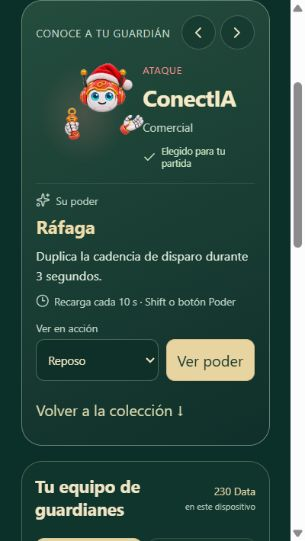
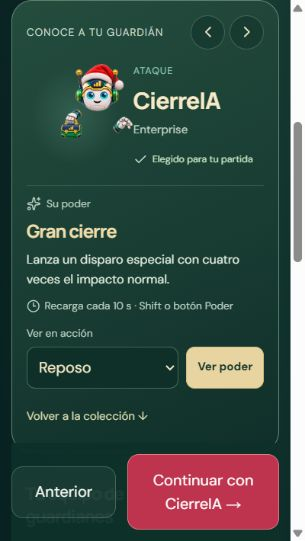
fix: ajustar títulos del selector y registrar revisión integrada

diff --git a/src/game/guardianSelector.css b/src/game/guardianSelector.css
@@ -1,11 +1,13 @@
 .guardian-selector { display:grid;grid-template-columns:310px minmax(0,1fr);gap:24px;align-items:start;margin-bottom:20px; }.guardian-selector button,.guardian-selector input,.guardian-selector select { font:inherit; }.guardian-selector button { cursor:pointer; }.guardian-selector button:disabled { cursor:default;opacity:.55; }.guardian-selector :focus-visible { outline:3px solid #a5dbe1;outline-offset:3px; }
-.guardian-detail { position:sticky;top:15px;border:1px solid #678674;border-radius:22px;background:linear-gradient(155deg,#244d3e,#102f2a);padding:19px;min-width:0; }.guardian-detail-top { display:flex;align-items:center;justify-content:space-between;gap:8px; }.guardian-detail-top>span { color:#c5d7c9;font-size:11px;text-transform:uppercase;letter-spacing:.06em; }.guardian-detail-top>div { display:flex;gap:5px; }.guardian-detail-top button { display:grid;place-items:center;width:36px;height:36px;border:1px solid #7c9a7e66;border-radius:50%;background:#173b31;color:#e8e3c4; }.guardian-stage { display:grid;place-items:center;height:210px;background:radial-gradient(ellipse,color-mix(in srgb,var(--guardian-accent) 20%,transparent),transparent 65%); }.arcade-setup .guardian-stage .arcade-character-preview { width:255px;max-width:100%;height:auto; }.guardian-stage>img { width:175px;height:190px;object-fit:contain; }.guardian-locked-art { color:#c7caa1; }.guardian-identity { text-align:center; }.guardian-style-tag { font-size:10px;text-transform:uppercase;letter-spacing:.09em;color:var(--guardian-accent); }.guardian-identity h2 { color:#f6e9c6;font-size:27px;margin:5px 0;letter-spacing:-.025em; }.guardian-identity>p { color:#bfd3c6;font-size:13px;margin:0; }.guardian-chosen { display:inline-flex;align-items:center;gap:5px;min-height:30px;font-size:11px;color:#c5e5c2;margin-top:7px; }
-.guardian-power { margin-top:16px;border-top:1px solid #7b9c7c44;padding-top:15px; }.guardian-power>span { display:flex;gap:6px;align-items:center;font-size:11px;color:#b7cec0; }.guardian-power h3 { font-size:19px;color:#efdcab;margin:7px 0; }.guardian-power p { color:#dfebdc;font-size:13px;line-height:1.65;margin:0 0 12px; }.guardian-power small { display:flex;align-items:flex-start;gap:5px;color:#b9cfc2;font-size:11px;line-height:1.6; }.guardian-power small svg { flex:none;margin-top:2px; }.guardian-animation { display:grid;grid-template-columns:minmax(0,1fr) auto;gap:8px;align-items:end;margin-top:15px; }.guardian-animation label { display:grid;gap:5px;font-size:11px;color:#b9cfc1; }.arcade .guardian-animation select { width:100%;min-width:0;height:44px;border:1px solid #78977b88;border-radius:9px;padding:8px;background:#0f3028;color:#f2e8c6;font-size:12px; }.arcade .guardian-animation>button { height:44px;padding:8px 11px;border:1px solid #cfbd83;border-radius:9px;background:#e8d4a1;color:#16382c;font-size:12px;font-weight:700; }.guardian-animation>small { grid-column:1/-1;font-size:11px;color:#b9cfc2; }.guardian-unlock p,.guardian-unlock small { font-size:12px;line-height:1.7;color:#c4d5c4; }.guardian-unlock small { display:block;margin-top:8px; }.arcade .guardian-unlock .arcade-button { width:100%;font-size:13px;margin-top:10px; }
-.guardian-catalog { min-width:0;padding:20px;border:1px solid #466b54;border-radius:22px;background:#11362ed9; }.guardian-catalog-heading { display:flex;justify-content:space-between;align-items:center;gap:10px;margin-bottom:18px; }.guardian-catalog-heading h2 { color:#f0e4c5;font-size:20px;margin:0; }.guardian-catalog-heading>span { text-align:right;font-size:13px;color:#e8d5a7;white-space:nowrap; }.guardian-catalog-heading small { display:block;font-size:10px;color:#afc7b7;margin-top:3px; }.guardian-catalog-tabs { display:flex;gap:6px;margin-bottom:14px; }.arcade .guardian-catalog-tabs button { border:1px solid #6c907355;border-radius:10px;background:#14382e;color:#bfd6c7;padding:10px 15px;min-height:44px;font-size:13px; }.arcade .guardian-catalog-tabs button[aria-pressed=true] { border-color:#d9c68e;background:#e4d3a3;color:#18392e;font-weight:700; }.guardian-search { display:flex;align-items:center;gap:8px;border:1px solid #74997e88;border-radius:10px;padding:0 12px;color:#a7c3b1;background:#0d2e28; }.arcade .guardian-search input { border:0;min-width:0;width:100%;min-height:46px;color:#f5edcf;background:transparent;font-size:14px; }.arcade .guardian-search input::placeholder { color:#b2cbb9; }.guardian-style-filters { display:flex;gap:6px;flex-wrap:wrap;margin-top:13px; }.arcade .guardian-style-filters button { border:1px solid #749a6e55;padding:8px 10px;border-radius:20px;background:transparent;color:#bfd2c1;min-height:36px;font-size:11px; }.arcade .guardian-style-filters button[aria-pressed=true] { color:#f0e1b8;background:#35583d;border-color:#b7c88a; }.guardian-list-help { color:#afc6b5;font-size:11px;line-height:1.7;margin:13px 0; }
-.guardian-grid { display:grid;grid-template-columns:repeat(3,minmax(0,1fr));gap:10px; }.guardian-card { position:relative;display:flex;align-items:center;gap:8px;min-width:0;min-height:117px;padding:13px 10px;border:1px solid #61806c66;border-radius:14px;background:#15372d;color:#e9edda;text-align:left;transition:background .15s,border-color .15s; }.guardian-card:hover { border-color:var(--guardian-accent);background:#214638; }.guardian-card.is-selected { background:linear-gradient(140deg,#345c40,#1c4031);border:2px solid var(--guardian-accent);padding:12px 9px; }.guardian-card.is-previewed { border-color:#d1c792;border-style:dashed; }.guardian-card img { width:53px;height:63px;object-fit:contain;flex:none; }.guardian-card-copy { min-width:0;display:flex;flex-direction:column;gap:5px; }.guardian-card strong { font-size:14px;letter-spacing:-.02em; }.guardian-card-area { color:#abc4b3;font-size:10px;line-height:1.4;overflow-wrap:anywhere; }.guardian-card small { font-size:10px;color:#e4d3a0;overflow-wrap:anywhere; }.guardian-card-cost { font-size:10px;color:#d4cba6; }.guardian-card-check { position:absolute;right:7px;top:7px;width:18px;height:18px;display:grid;place-items:center;color:#152f26; }.guardian-card.is-selected .guardian-card-check { background:var(--guardian-accent);border-radius:50%; }.guardian-card:not(.is-selected) .guardian-card-check { color:#c8c8aa; }.guardian-classic-icon { color:#bad3b6;flex:none; }.guardian-empty { padding:35px 15px;text-align:center;color:#bfd3bc; }.guardian-empty h3 { color:#e8ddba;margin:10px 0;font-size:18px; }.guardian-empty p { font-size:13px;line-height:1.7; }.arcade .guardian-empty button { border:1px solid #a7bd8c;border-radius:10px;padding:12px;color:#eaddb3;background:#1f4433;margin-top:12px;font-size:12px; }
+.guardian-detail { position:sticky;top:15px;border:1px solid #678674;border-radius:22px;background:linear-gradient(155deg,#244d3e,#102f2a);padding:19px;min-width:0; }.guardian-detail-top { display:flex;align-items:center;justify-content:space-between;gap:8px; }.guardian-detail-top>span { color:#c5d7c9;font-size:11px;text-transform:uppercase;letter-spacing:.06em; }.guardian-detail-top>div { display:flex;gap:5px; }.guardian-detail-top button { display:grid;place-items:center;width:36px;height:36px;border:1px solid #7c9a7e66;border-radius:50%;background:#173b31;color:#e8e3c4; }.guardian-stage { display:grid;place-items:center;height:210px;background:radial-gradient(ellipse,color-mix(in srgb,var(--guardian-accent) 20%,transparent),transparent 65%); }.arcade-setup .guardian-stage .arcade-character-preview { width:255px;max-width:100%;height:auto; }.guardian-stage>img { width:175px;height:190px;object-fit:contain; }.guardian-locked-art { color:#c7caa1; }.guardian-identity { text-align:center; }.guardian-style-tag { font-size:10px;text-transform:uppercase;letter-spacing:.09em;color:var(--guardian-accent); }.guardian-selector .guardian-identity h2 { color:#f6e9c6;font-size:27px;margin:5px 0;letter-spacing:-.025em; }.guardian-identity>p { color:#bfd3c6;font-size:13px;margin:0; }.guardian-chosen { display:inline-flex;align-items:center;gap:5px;min-height:30px;font-size:11px;color:#c5e5c2;margin-top:7px; }
+.guardian-power { margin-top:16px;border-top:1px solid #7b9c7c44;padding-top:15px; }.guardian-power>span { display:flex;gap:6px;align-items:center;font-size:11px;color:#b7cec0; }.guardian-selector .guardian-power h3 { font-size:19px;color:#efdcab;margin:7px 0; }.guardian-power p { color:#dfebdc;font-size:13px;line-height:1.65;margin:0 0 12px; }.guardian-power small { display:flex;align-items:flex-start;gap:5px;color:#b9cfc2;font-size:11px;line-height:1.6; }.guardian-power small svg { flex:none;margin-top:2px; }.guardian-animation { display:grid;grid-template-columns:minmax(0,1fr) auto;gap:8px;align-items:end;margin-top:15px; }.guardian-animation label { display:grid;gap:5px;font-size:11px;color:#b9cfc1; }.arcade .guardian-animation select { width:100%;min-width:0;height:44px;border:1px solid #78977b88;border-radius:9px;padding:8px;background:#0f3028;color:#f2e8c6;font-size:12px; }.arcade .guardian-animation>button { height:44px;padding:8px 11px;border:1px solid #cfbd83;border-radius:9px;background:#e8d4a1;color:#16382c;font-size:12px;font-weight:700; }.guardian-animation>small { grid-column:1/-1;font-size:11px;color:#b9cfc2; }.guardian-unlock p,.guardian-unlock small { font-size:12px;line-height:1.7;color:#c4d5c4; }.guardian-unlock small { display:block;margin-top:8px; }.arcade .guardian-unlock .arcade-button { width:100%;font-size:13px;margin-top:10px; }
+.guardian-catalog { min-width:0;padding:20px;border:1px solid #466b54;border-radius:22px;background:#11362ed9; }.guardian-catalog-heading { display:flex;justify-content:space-between;align-items:center;gap:10px;margin-bottom:18px; }.guardian-selector .guardian-catalog-heading h2 { color:#f0e4c5;font-size:20px;margin:0; }.guardian-catalog-heading>span { text-align:right;font-size:13px;color:#e8d5a7;white-space:nowrap; }.guardian-catalog-heading small { display:block;font-size:10px;color:#afc7b7;margin-top:3px; }.guardian-catalog-tabs { display:flex;gap:6px;margin-bottom:14px; }.arcade .guardian-catalog-tabs button { border:1px solid #6c907355;border-radius:10px;background:#14382e;color:#bfd6c7;padding:10px 15px;min-height:44px;font-size:13px; }.arcade .guardian-catalog-tabs button[aria-pressed=true] { border-color:#d9c68e;background:#e4d3a3;color:#18392e;font-weight:700; }.guardian-search { display:flex;align-items:center;gap:8px;border:1px solid #74997e88;border-radius:10px;padding:0 12px;color:#a7c3b1;background:#0d2e28; }.arcade .guardian-search input { border:0;min-width:0;width:100%;min-height:46px;color:#f5edcf;background:transparent;font-size:14px; }.arcade .guardian-search input::placeholder { color:#b2cbb9; }.guardian-style-filters { display:flex;gap:6px;flex-wrap:wrap;margin-top:13px; }.arcade .guardian-style-filters button { border:1px solid #749a6e55;padding:8px 10px;border-radius:20px;background:transparent;color:#bfd2c1;min-height:36px;font-size:11px; }.arcade .guardian-style-filters button[aria-pressed=true] { color:#f0e1b8;background:#35583d;border-color:#b7c88a; }.guardian-list-help { color:#afc6b5;font-size:11px;line-height:1.7;margin:13px 0; }
+.guardian-grid { display:grid;grid-template-columns:repeat(3,minmax(0,1fr));gap:10px; }.guardian-card { position:relative;display:flex;align-items:center;gap:8px;min-width:0;min-height:117px;padding:13px 10px;border:1px solid #61806c66;border-radius:14px;background:#15372d;color:#e9edda;text-align:left;transition:background .15s,border-color .15s; }.guardian-card:hover { border-color:var(--guardian-accent);background:#214638; }.guardian-card.is-selected { background:linear-gradient(140deg,#345c40,#1c4031);border:2px solid var(--guardian-accent);padding:12px 9px; }.guardian-card.is-previewed { border-color:#d1c792;border-style:dashed; }.guardian-card img { width:53px;height:63px;object-fit:contain;flex:none; }.guardian-card-copy { min-width:0;display:flex;flex-direction:column;gap:5px; }.guardian-card strong { font-size:14px;letter-spacing:-.02em; }.guardian-card-area { color:#abc4b3;font-size:10px;line-height:1.4;overflow-wrap:anywhere; }.guardian-card small { font-size:10px;color:#e4d3a0;overflow-wrap:anywhere; }.guardian-card-cost { font-size:10px;color:#d4cba6; }.guardian-card-check { position:absolute;right:7px;top:7px;width:18px;height:18px;display:grid;place-items:center;color:#152f26; }.guardian-card.is-selected .guardian-card-check { background:var(--guardian-accent);border-radius:50%; }.guardian-card:not(.is-selected) .guardian-card-check { color:#c8c8aa; }.guardian-classic-icon { color:#bad3b6;flex:none; }.guardian-empty { padding:35px 15px;text-align:center;color:#bfd3bc; }.guardian-selector .guardian-empty h3 { color:#e8ddba;margin:10px 0;font-size:18px; }.guardian-empty p { font-size:13px;line-height:1.7; }.arcade .guardian-empty button { border:1px solid #a7bd8c;border-radius:10px;padding:12px;color:#eaddb3;background:#1f4433;margin-top:12px;font-size:12px; }
 @media(max-width:1000px){.guardian-selector{grid-template-columns:270px minmax(0,1fr);gap:15px;}.guardian-grid{grid-template-columns:repeat(2,minmax(0,1fr));}.guardian-card img{width:49px;}.guardian-catalog{padding:16px;}}
-@media(max-width:650px){.guardian-selector{grid-template-columns:1fr;gap:16px;}.guardian-detail{position:static;display:grid;grid-template-columns:100px minmax(0,1fr);gap:8px 12px;padding:15px;}.guardian-detail-top{grid-column:1/-1;}.guardian-stage{height:112px;align-self:center;}.arcade-setup .guardian-stage .arcade-character-preview{width:132px;max-width:132px;}.guardian-stage>img{width:92px;height:110px;}.guardian-identity{text-align:left;align-self:center;}.guardian-identity h2{font-size:24px;}.guardian-identity>p{font-size:12px;}.guardian-chosen{font-size:10px;}.guardian-power,.guardian-animation,.guardian-unlock{grid-column:1/-1;}.guardian-power{margin-top:4px;padding-top:10px;}.guardian-power p{margin-bottom:7px;}.guardian-animation{margin-top:4px;}.guardian-catalog{padding:14px;}.guardian-catalog-heading h2{font-size:18px;}.arcade .guardian-catalog-tabs button{flex:1;padding:10px 8px;}.guardian-grid{grid-template-columns:repeat(3,minmax(0,1fr));gap:7px;}.guardian-card,.guardian-card.is-selected{flex-direction:column;justify-content:center;text-align:center;padding:14px 5px 9px;min-height:126px;gap:5px;}.guardian-card.is-selected{padding:13px 4px 8px;}.guardian-card img{width:53px;height:59px;}.guardian-card-copy{gap:4px;}.guardian-card strong{font-size:12px;}.guardian-card-area{display:none;}.guardian-card small{font-size:9px;}.guardian-card-check{right:4px;top:4px;}.guardian-catalog-heading>span{font-size:11px;}.guardian-catalog-heading small{font-size:9px;}.guardian-style-filters{gap:5px;}.arcade .guardian-style-filters button{font-size:10px;padding:8px;}}
-.arcade .guardian-back-to-cards { display:none; }.guardian-identity h2,.guardian-catalog-heading h2 { scroll-margin-top:18px; }
+@media(max-width:650px){.guardian-selector{grid-template-columns:1fr;gap:16px;}.guardian-detail{position:static;display:grid;grid-template-columns:100px minmax(0,1fr);gap:8px 12px;padding:15px;}.guardian-detail-top{grid-column:1/-1;}.guardian-stage{height:112px;align-self:center;}.arcade-setup .guardian-stage .arcade-character-preview{width:132px;max-width:132px;}.guardian-stage>img{width:92px;height:110px;}.guardian-identity{text-align:left;align-self:center;}.guardian-selector .guardian-identity h2{font-size:24px;}.guardian-identity>p{font-size:12px;}.guardian-chosen{font-size:10px;}.guardian-power,.guardian-animation,.guardian-unlock{grid-column:1/-1;}.guardian-power{margin-top:4px;padding-top:10px;}.guardian-power p{margin-bottom:7px;}.guardian-animation{margin-top:4px;}.guardian-catalog{padding:14px;}.guardian-selector .guardian-catalog-heading h2{font-size:18px;}.arcade .guardian-catalog-tabs button{flex:1;padding:10px 8px;}.guardian-grid{grid-template-columns:repeat(3,minmax(0,1fr));gap:7px;}.guardian-card,.guardian-card.is-selected{flex-direction:column;justify-content:center;text-align:center;padding:14px 5px 9px;min-height:126px;gap:5px;}.guardian-card.is-selected{padding:13px 4px 8px;}.guardian-card img{width:53px;height:59px;}.guardian-card-copy{gap:4px;}.guardian-card strong{font-size:12px;}.guardian-card-area{display:none;}.guardian-card small{font-size:9px;}.guardian-card-check{right:4px;top:4px;}.guardian-catalog-heading>span{font-size:11px;}.guardian-catalog-heading small{font-size:9px;}.guardian-style-filters{gap:5px;}.arcade .guardian-style-filters button{font-size:10px;padding:8px;}}
+.arcade .guardian-back-to-cards { display:none; }.guardian-selector .guardian-identity h2,.guardian-selector .guardian-catalog-heading h2 { scroll-margin-top:18px; }
 @media(max-width:650px){.arcade .guardian-back-to-cards{display:block;grid-column:1/-1;min-height:44px;border:0;background:transparent;color:#d9d9ae;text-align:left;font-size:12px;padding:6px 0;}.guardian-card strong{font-size:13px;}.guardian-card small{font-size:10px;}.arcade .guardian-style-filters button{font-size:11px;}}
 @media(max-width:650px){.arcade .guardian-search input,.arcade .guardian-animation select{font-size:16px;}}
+.game-stage .guardian-selector .guardian-power h3 { font-size:19px!important;text-align:left; }
+.game-stage .guardian-selector .guardian-empty h3 { font-size:18px!important; }
 @media(prefers-reduced-motion:reduce){.guardian-card{transition:none;}}

diff --git a/docs/selector-guardianes.md b/docs/selector-guardianes.md
@@ -16,6 +16,7 @@ Solo el guardián elegido usa su animación completa. La colección utiliza los 
 - Revisión local del componente real a 1280×850 y 320×568: selección de ConectIA, vista de Ráfaga, filtro de cinco personajes de ataque, búsqueda «rafaga comercial», recuperación de resultados vacíos y selección por teclado de CierreIA.
 - En la escena local con 730 Data de ejemplo, previsualizar VictorIA ST mantuvo el saldo y a ConectIA elegido. Desbloquearlo dejó 230 Data; volver a seleccionarlo no cambió ese saldo. La escena no escribe en el perfil del usuario ni se conecta a Firestore.
 - El teléfono virtual mostró ancho de contenido y desplazamiento de 305 píxeles, sin desbordamiento horizontal. Se comprobó el foco en la ficha al elegir y el regreso a la colección.
-- Las [capturas de la primera revisión móvil](../design/guardian-selector/ficha-320.jpg) y [tarjetas](../design/guardian-selector/tarjetas-320.jpg) preceden al último ajuste de tipografía. La última comprobación visual y la revisión integrada de la versión final no pudieron completarse: la revisión automática del navegador alcanzó un límite de uso. La compilación, las pruebas y los hashes de Hosting se verifican por separado; falta también la valoración en un teléfono físico.
+- Revisión integrada de la versión final de Hosting a 1280 y 320 píxeles: selección, vista del poder, avance a «Jugar», conservación de ConectIA tras recargar y bloqueo de compra sin saldo. La ficha y las tarjetas móviles no presentan desbordamiento horizontal (305/305 píxeles de ancho útil). Sin errores de consola durante la revisión.
+- Se corrigió la interferencia del tamaño global de títulos sobre los nombres de poderes: 19 píxeles y alineación izquierda en la ficha; 18 píxeles en el aviso de búsqueda sin resultados. Las capturas finales corresponden a la versión integrada: [ficha móvil](../design/guardian-selector/ficha-320.jpg), [colección móvil](../design/guardian-selector/tarjetas-320.jpg) y [escritorio](../design/guardian-selector/selector-desktop.jpg). Falta la valoración en un teléfono físico.
 
 [Escena local de comprobación](../design/guardian-selector/review.html). Sus 730 Data son datos de ejemplo, no recompensas ni saldos reales, y no se incluye en Hosting.
